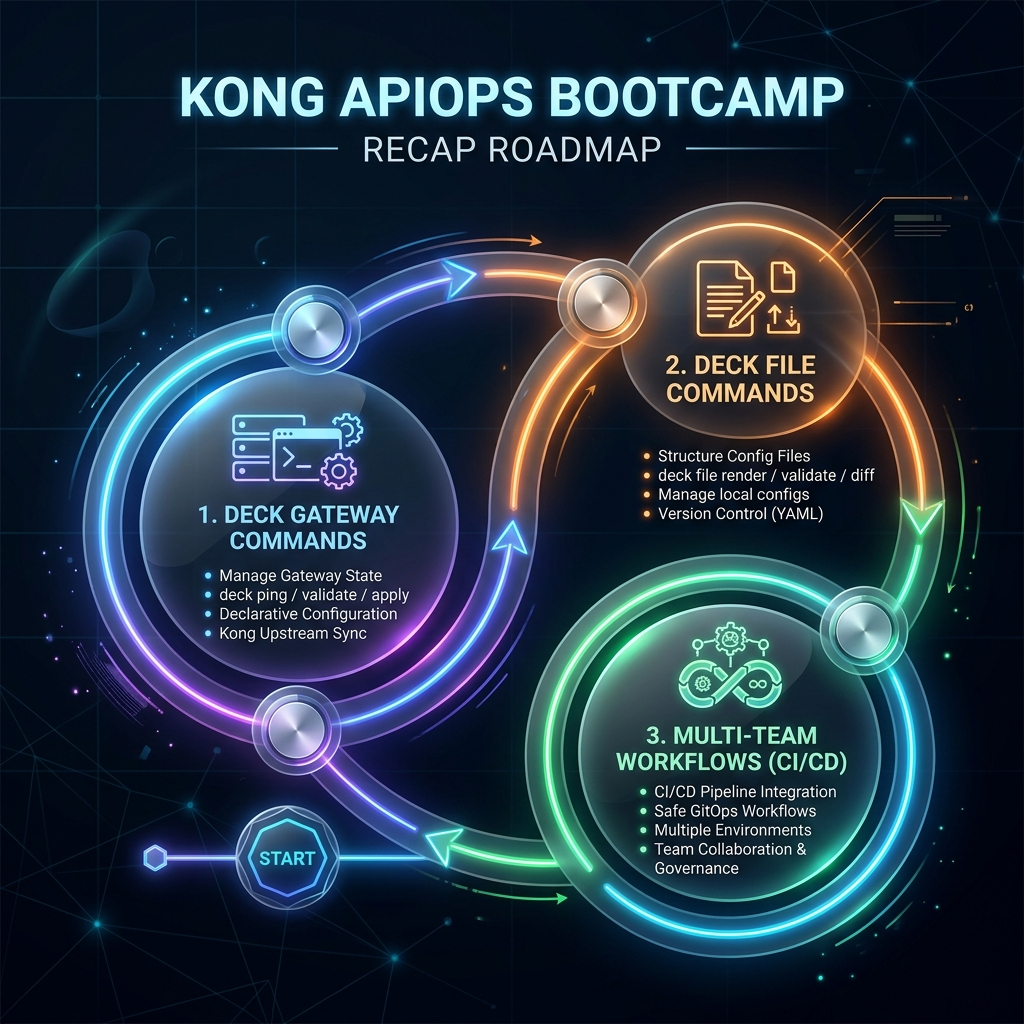
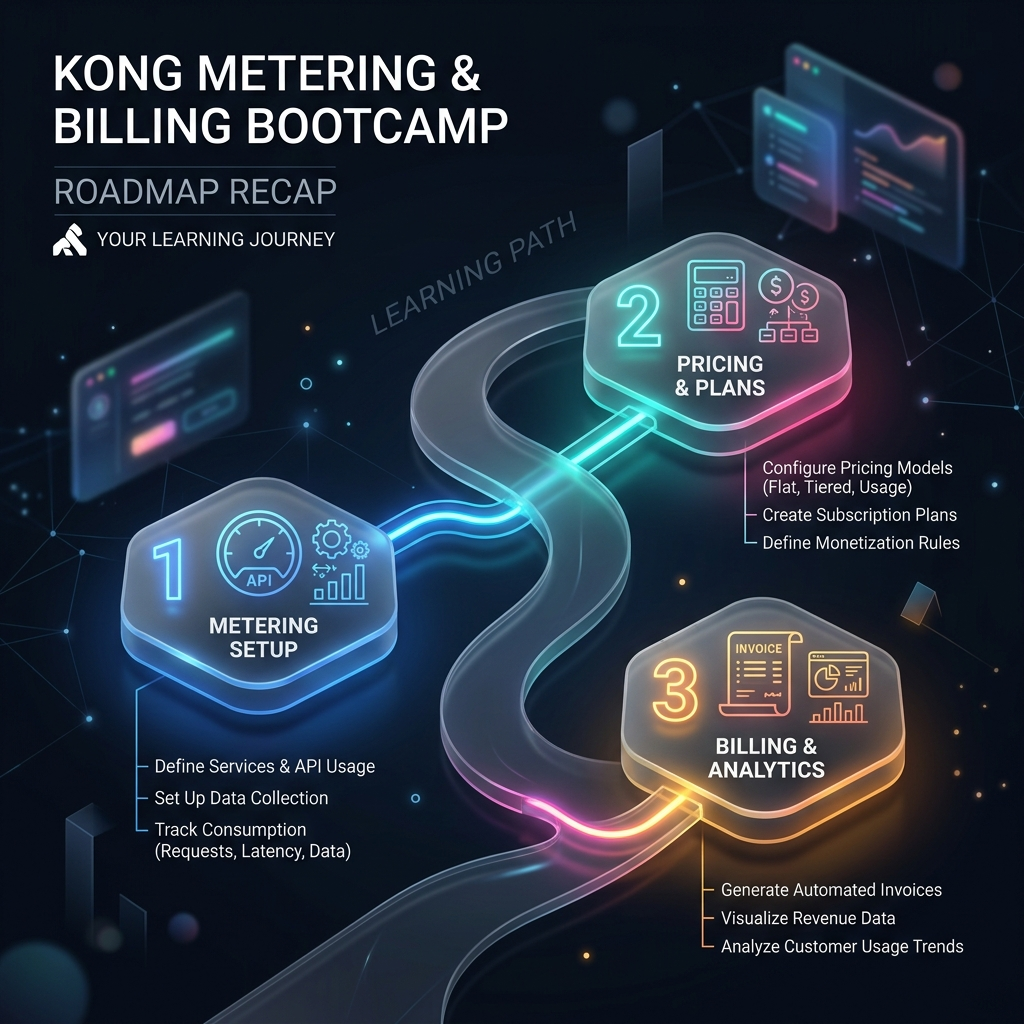
Add bootcamp recap roadmaps and premium architectural diagrams

diff --git a/README.md b/README.md
@@ -8,6 +8,8 @@
 
 A hands-on bootcamp for learning Kong Metering & Billing - from usage tracking through pricing models, invoicing, and payment collection.
 
+![Bootcamp Recap](./public/bootcamp_recap.png)
+
 ## Overview
 
 | | |